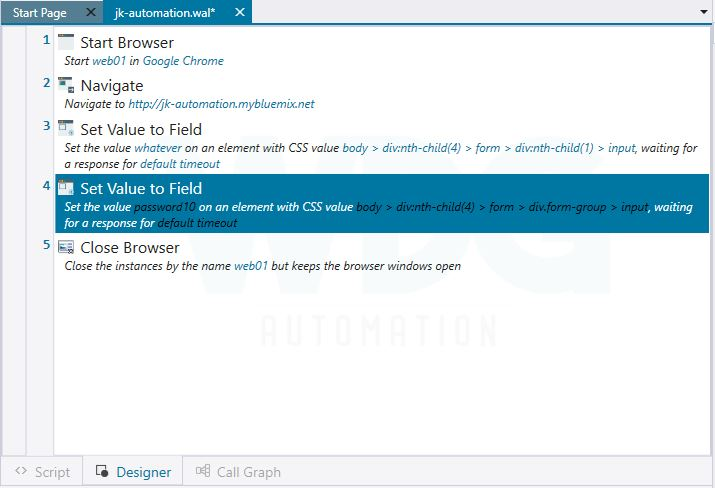
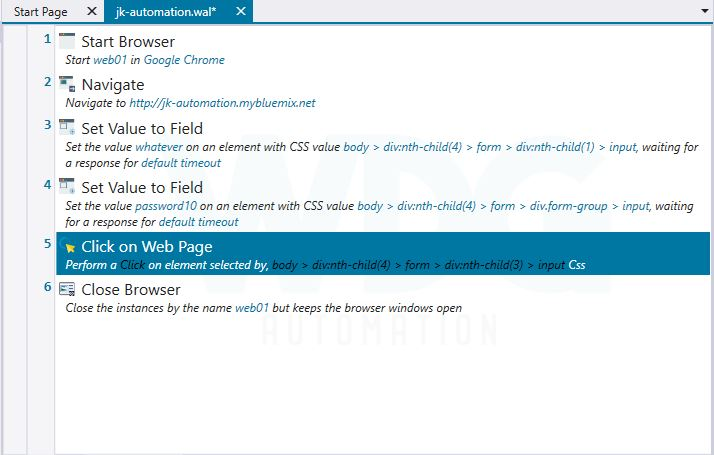
update

Changed region(s): [[0.0, 0.0, 1.0, 1.0]]

diff --git a/README.md b/README.md
@@ -90,15 +90,20 @@ You should now have your Studio opened with a empty WAL file in your Designer vi
 
 ![](./images/setvalue-password.JPG)
 
+- Now, let's finish the login sequence by adding a command to click the `Submit` button in the JK Automation login page. We'll do that by adding command `Click on Web Page` after the Set Value to Field commands
+
+> Note that you can use toolbox search field to find commands. To display all the commands related to clicking, type **click** to the search field.
+
+![](./images/toolbox-click.JPG)
+
+-  Get the selector for the button from your browsers element inspector as earlier did for the Username and Password fields.
+
+![](./images/click-submit.JPG)
+
 - Your automation should look like as follows.
 
 ![](./images/2nd-check.JPG)
 
-- Now, let's finish the login sequence by adding a command to click the `Submit` button in the JK Automation login page. We'll do that by adding command `Click on Web Page` after the Set Value to Field commands. Get the selector for the button from your browsers element inspector as earlier did for the Username and Password fields.
-
-> You can use toolbox search field to find commands. To display all the commands related to clicking, type **click** to the search field.
-
-![](./images/toolbox-click.JPG)
 
 **(4) Test your automation**
 
